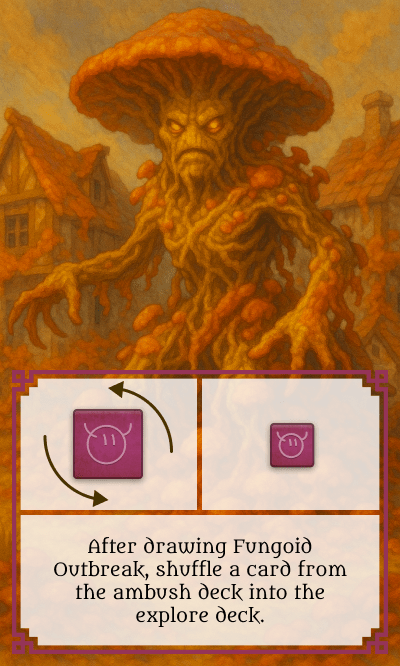
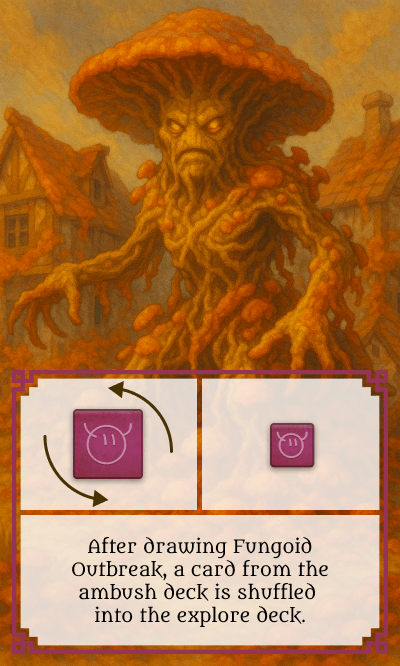
Update text

Changed region(s): [[0.12, 0.8408, 0.87, 0.961]]

diff --git a/src/utils/expansions.ts b/src/utils/expansions.ts
@@ -74,7 +74,7 @@ export const availableExpansions: Expansion[] = [
           id: "ambush2m4",
           name: "Fungoid Outbreak",
           description:
-            "After drawing Fungoid Outbreak, shuffle a card from the ambush deck into the explore deck.",
+            "After drawing Fungoid Outbreak, a card from the ambush deck is shuffled into the explore deck.",
         },
       ],
       explore: [],
